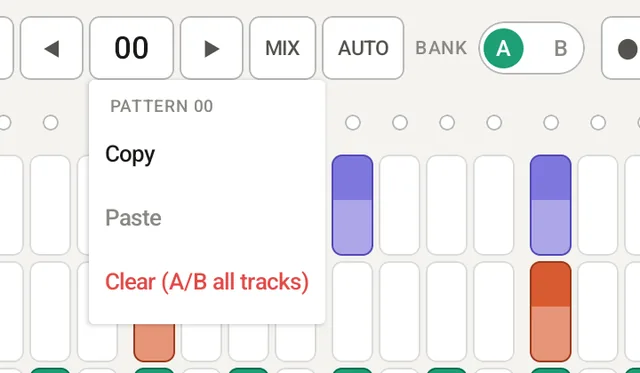
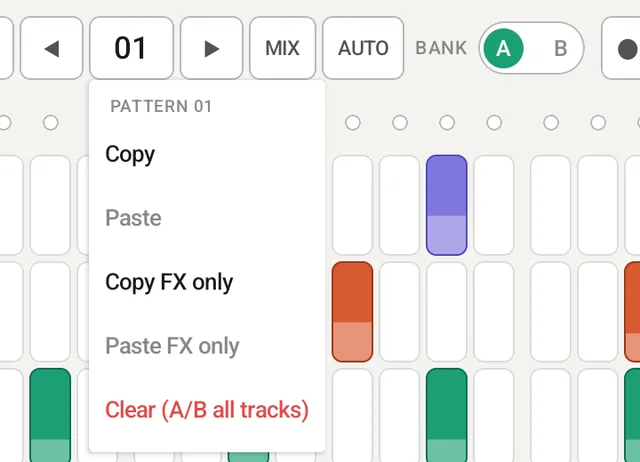
DBR-1 説明書: FX の GLOBAL と FX だけのコピー / ペースト（vc46）
Claude-Session: https://claude.ai/code/session_014nrG8LAda3EPv8TQp5hzGz

diff --git a/dbr1/manual/ja.html b/dbr1/manual/ja.html
@@ -44,7 +44,7 @@
 <tr><th class="n">#</th><th>名前</th><th>はたらき</th></tr>
 <tr><td class="n"><span class="num">1</span></td><td>ロゴ</td><td>タップでメニュー: この説明書（Manual）、MIDI の設定（MIDI…）、オーディオの入出力（Audio I/O…）、オートメーションの動きの表示（Animate automation）、スマートフォンと同じ配置にする（Phone layout）、アプリの情報（About）</td></tr>
 <tr><td class="n"><span class="num">2</span></td><td>SAVE / LOAD</td><td>プロジェクト・パターン・キットの保存と読み込み（→ <a href="#save">10</a>）。LOAD の Templates… でジャンルの定番ビート（→ <a href="#templates">2</a>）、Demo songs… でデモソング（→ <a href="#demosongs">2</a>）</td></tr>
-<tr><td class="n"><span class="num">3</span></td><td>パターン番号</td><td>◀ ▶ で切り替え（00〜99）。数字のタップで直接入力、長押しでコピー / ペースト / 消去</td></tr>
+<tr><td class="n"><span class="num">3</span></td><td>パターン番号</td><td>◀ ▶ で切り替え（00〜99）。数字のタップで直接入力、長押しでコピー / ペースト / 消去（FX だけのコピー / ペーストも）</td></tr>
 <tr><td class="n"><span class="num">4</span></td><td>MIX / AUTO</td><td>MIX = ステップの画面とミキサーの切り替え（→ <a href="#mixer">ミキサー</a>）、AUTO = オートメーションの画面（→ <a href="#automation">オートメーション</a>）</td></tr>
 <tr><td class="n"><span class="num">5</span></td><td>BANK A / B</td><td>表示するトラック（A01〜A08 / B01〜B08）の切り替え</td></tr>
 <tr><td class="n"><span class="num">6</span></td><td>REC</td><td>録音の待機。点灯中に再生してパッドを叩くと、ステップに記録されます（→ <a href="#rec">4</a>）</td></tr>
@@ -316,6 +316,7 @@
   <li>REVERB / DELAY / DIST はそれぞれ ON / OFF でき、下の <b>wet</b> は選択中のトラックにかける量です（REVERB / DELAY はセンド量、DIST はかかり具合）。</li>
   <li>DELAY の sync は 1/4〜付点 8 分のテンポ同期。time を動かすと FREE（10ms〜1s）になります。</li>
   <li><b>SCENE A / B</b>（REVERB / DELAY / DIST の名前の横）: REVERB / DELAY / DIST の設定をパターンごとに 2 セット持てます。演奏中に切り替えられます。</li>
+  <li><b>GLOBAL</b>（ON / OFF スイッチの左）: 点灯させると、FX（シーン A / B・各トラックのセンド量）を<b>全パターンで 1 つ</b>にします。演奏中にパターンを切り替えても FX が変わらず、どのパターンで動かしても全パターンに効きます。点けたときに今のパターンの FX を全パターンに写します（ほかのパターンに違う FX があれば確認が出ます）。消すと、そのときの FX のままパターンごとに戻ります。プロジェクトに保存されます。</li>
 </ul>
 </div>
 </div>
@@ -417,7 +418,7 @@
 <ul>
   <li>パターンは 00〜99 の 100 個。各パターンがステップ・ベロシティ・長さ・スウィング・テンポ・エフェクトの設定・オートメーションを持ちます（音のキットは共通）。</li>
   <li>再生中にパターン番号を変えると、<b>小節の終わり</b>で切り替わります（待っている番号は枠が光ります）。停止中はすぐ切り替わります。</li>
-  <li>長押しで、パターン全体のコピー / ペースト / 消去。</li>
+  <li>長押しで、パターン全体のコピー / ペースト / 消去。<b>Copy FX only / Paste FX only</b> で、FX の設定（シーン A / B・センド量）だけを別のパターンへ写せます（ステップはそのまま、↶ で戻せます）。</li>
 </ul>
 </div>
 </div>

diff --git a/dbr1/manual/en.html b/dbr1/manual/en.html
@@ -44,7 +44,7 @@
 <tr><th class="n">#</th><th>Name</th><th>What it does</th></tr>
 <tr><td class="n"><span class="num">1</span></td><td>Logo</td><td>Tap for the menu: this Manual, MIDI settings (MIDI…), audio inputs and outputs (Audio I/O…), moving knobs with automation (Animate automation), the phone-style layout (Phone layout), About</td></tr>
 <tr><td class="n"><span class="num">2</span></td><td>SAVE / LOAD</td><td>Save and load projects, patterns and kits (→ <a href="#save">10</a>). LOAD → Templates… for classic genre beats (→ <a href="#templates">2</a>), Demo songs… for the demo songs (→ <a href="#demosongs">2</a>)</td></tr>
-<tr><td class="n"><span class="num">3</span></td><td>Pattern number</td><td>◀ ▶ to change (00–99). Tap the number to type it; long-press for Copy / Paste / Clear</td></tr>
+<tr><td class="n"><span class="num">3</span></td><td>Pattern number</td><td>◀ ▶ to change (00–99). Tap the number to type it; long-press for Copy / Paste / Clear (also FX only)</td></tr>
 <tr><td class="n"><span class="num">4</span></td><td>MIX / AUTO</td><td>MIX switches between the step view and the mixer (→ <a href="#mixer">Mixer</a>); AUTO opens the automation view (→ <a href="#automation">Automation</a>)</td></tr>
 <tr><td class="n"><span class="num">5</span></td><td>BANK A / B</td><td>Shows tracks A01–A08 or B01–B08</td></tr>
 <tr><td class="n"><span class="num">6</span></td><td>REC</td><td>Arms recording. Pads you hit while playing are recorded (→ <a href="#rec">4</a>)</td></tr>
@@ -316,6 +316,7 @@
   <li>REVERB / DELAY / DIST each have an on / off switch; <b>wet</b> at the bottom is how much the selected track gets — the send level for REVERB / DELAY, the amount for DIST.</li>
   <li>DELAY sync follows the tempo (1/4 to dotted 1/8). Moving time switches to FREE (10 ms – 1 s).</li>
   <li><b>SCENE A / B</b> (next to the REVERB / DELAY / DIST name): each pattern holds two complete REVERB / DELAY / DIST settings you can switch between while playing.</li>
+  <li><b>GLOBAL</b> (left of the on / off switch): when lit, <b>all patterns share one set of FX</b> (scenes A / B and every track's sends). Switching patterns while playing no longer changes the FX, and a change made in any pattern applies to all. Turning it on copies the current pattern's FX to every pattern (you are asked first if other patterns have different FX). Turning it off keeps the FX as they are, per pattern again. Saved with the project.</li>
 </ul>
 </div>
 </div>
@@ -417,7 +418,7 @@
 <ul>
   <li>There are 100 patterns (00–99). Each holds steps, velocities, length, swing, tempo, effect settings and automation (the kit is shared).</li>
   <li>Changing the pattern while playing switches <b>at the end of the bar</b> (the queued number is outlined). When stopped, it switches at once.</li>
-  <li>Long-press to copy / paste / clear a whole pattern.</li>
+  <li>Long-press to copy / paste / clear a whole pattern. <b>Copy FX only / Paste FX only</b> copy just the effect settings (scenes A / B and sends) to another pattern, leaving its steps alone (↶ undoes it).</li>
 </ul>
 </div>
 </div>
